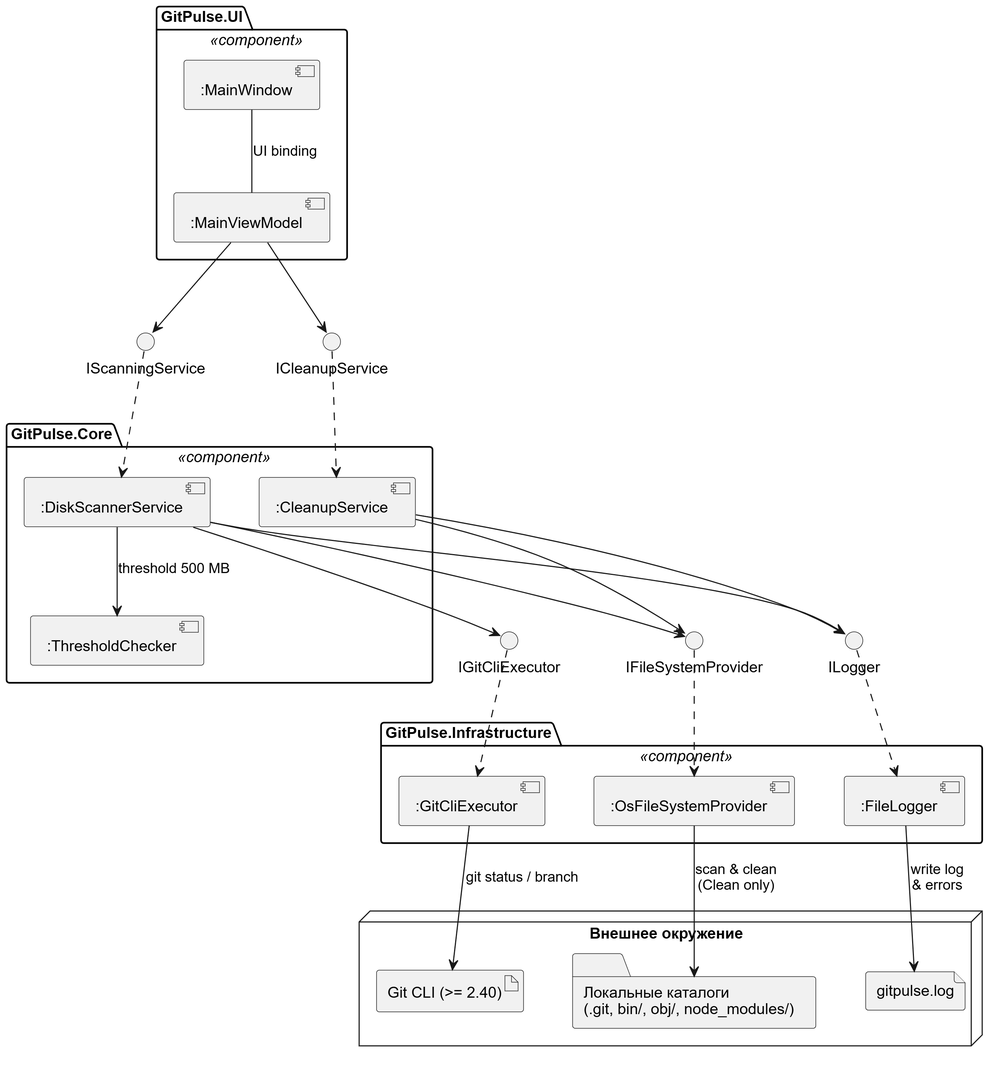
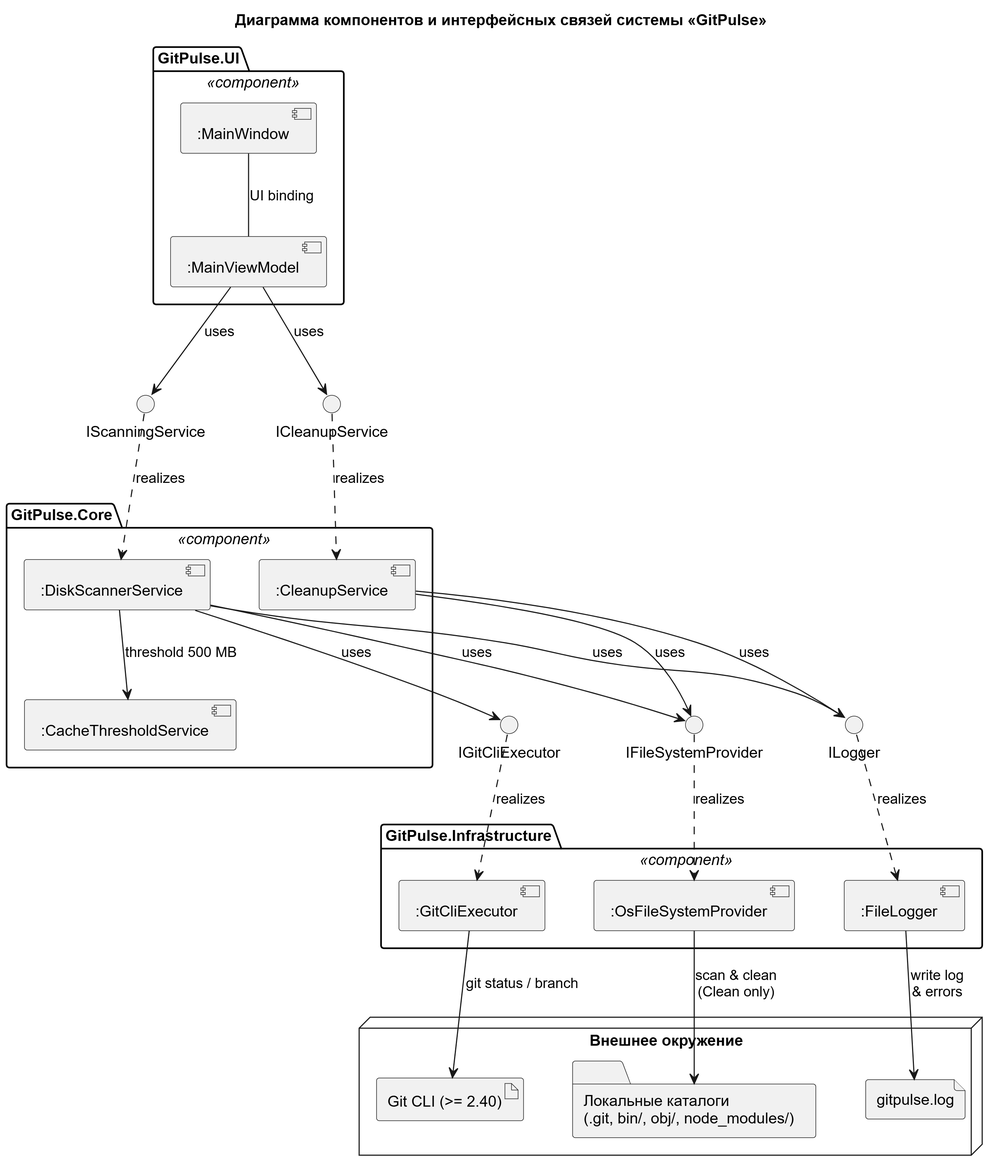
docs: синхронизировать документацию и диаграммы после согласования

diff --git a/sdd/sdd-template.md b/sdd/sdd-template.md
@@ -2,7 +2,7 @@
 
 Для кроссплатформенной десктопной утилиты аудита Git-репозиториев и очистки сборочных артефактов "GitPulse"
 
-Версия 0.5
+Версия 0.6
 
 Подготовил: Толкач Д. Г.
 
@@ -10,7 +10,7 @@
 
 Белорусский государственный университет информатики и радиоэлектроники (БГУИР)
 
-Дата изменения: 24 ноября 2026 г.
+Дата изменения: 26 ноября 2026 г.
 
 ## Оглавление
 
@@ -57,6 +57,7 @@
 | Толкач Д. Г. | 23.11.2026 | Обновлена архитектурная диаграмма системы (gitpulse-architecture.png) в соответствии с нотацией SysML v2 (представление Interconnection) | 0.3 |
 | Толкач Д. Г. | 23.11.2026 | Добавлены проектные представления динамического поведения (Use Case, Activity, State Machine, Sequence) и ссылки на диаграммы в рамках ЛР №5 | 0.4 |
 | Толкач Д. Г. | 24.11.2026 | Добавлены проектные представления диаграммы компонентов (gitpulse-components.png) и диаграммы развёртывания (gitpulse-deployment.png), обновлено описание решений в рамках ЛР №6 | 0.5 |
+| Толкач Д. Г. | 26.11.2026 | Актуализация спецификаций, версий и ссылок после согласования правок (500 МБ / 5 ГБ, Junior-разработчик, схема развёртывания и состав артефактов ЛР №3–№6) | 0.6 |
 
 ---
 
@@ -118,13 +119,13 @@
 Система работает локально в изолированном окружении операционной системы (Windows, Linux, macOS), взаимодействуя с файловой системой и утилитой Git CLI.
 
 #### 2.2.2 Композиция {#222-composition}
-Система делится на три логических слоя: представление (`GitPulse.UI`: `MainWindow`, `MainViewModel`), прикладное ядро (`GitPulse.Core`: `DiskScannerService`, `CleanupService`, `ThresholdChecker`) и инфраструктура (`GitPulse.Infrastructure`: `GitCliExecutor`, `OsFileSystemProvider`, `FileLogger`).
+Система делится на три логических слоя: представление (`GitPulse.UI`: `MainWindow`, `MainViewModel`), прикладное ядро (`GitPulse.Core`: `DiskScannerService`, `CleanupService`, `CacheThresholdService`) и инфраструктура (`GitPulse.Infrastructure`: `GitCliExecutor`, `OsFileSystemProvider`, `FileLogger`).
 
 #### 2.2.3 Логическое представление {#223-logical}
 Использование паттерна MVVM: `MainViewModel` управляет состоянием таблиц, инкапсулируя бизнес-логику фильтрации и подсчета порогов кэша (от 500 МБ).
 
 #### 2.2.4 Физическое представление {#224-physical}
-Портативный дистрибутив `GitPulse.zip` (Portable / Self-contained) для среды выполнения `.NET 9` на рабочей станции пользователя, включающий исполняемый файл `GitPulse.exe` и сборки `GitPulse.UI.dll`, `GitPulse.Core.dll`, `GitPulse.Infrastructure.dll`.
+Портативный дистрибутив `GitPulse.zip` (Portable / Self-contained) для среды выполнения `.NET 9` на рабочей станции пользователя, включающий исполняемый файл `GitPulse / GitPulse.exe` и сборки `GitPulse.UI.dll`, `GitPulse.Core.dll`, `GitPulse.Infrastructure.dll`.
 
 #### 2.2.5 Структура {#225-structure}
 Компоненты взаимодействуют через интерфейсные контракты (`IScanningService`, `ICleanupService`, `IGitCliExecutor`, `IFileSystemProvider`, `ILogger`) с внедрением зависимостей, что обеспечивает слабую связанность и модульное тестирование[cite: 28, 35].
@@ -145,7 +146,7 @@
 Рекурсивный обход файловой системы с проверкой наличия папки `.git` и быстрым исключением системных директорий.
 
 #### 2.2.11 Динамика состояний {#2211-state-dynamics}
-Основные состояния жизненного цикла аудита и очистки: `Idle` -> `Scanning` -> `Ready` (результаты с веткой, статусом `Clean`/`Dirty` и проверкой порога 500 МБ) -> `ConfirmingCleanup` -> `Cleaning` -> возврат в `Ready`/`Idle`, а также переход в `Error` при сбоях доступа, `Git CLI` или ввода-вывода с записью в `gitpulse.log`.
+Основные состояния жизненного цикла аудита и очистки: `Idle` -> `Scanning` -> `Ready` (результаты с веткой, статусом `Clean`/`Dirty` и проверкой базового порога 500 МБ) -> `ConfirmingCleanup` -> `Cleaning` -> возврат в `Ready`/`Idle`, а также переход в `Error` при сбоях доступа, `Git CLI` или ввода-вывода с записью в `gitpulse.log`. Фоновый режим и порог 5 ГБ зафиксированы по итогам переговоров с заказчиком как расширение без сдвига базового дедлайна.
 
 #### 2.2.12 Параллелизм {#2212-concurrency}
 Использование пула потоков .NET (`ThreadPool`) и асинхронных примитивов (`async/await`) для предотвращения блокировки пользовательского интерфейса.
@@ -168,12 +169,12 @@ MVVM, Repository Pattern, Dependency Injection.
 - **Viewpoint**: Композиция / Структура / Зависимости
 - **Representation**: Приложение построено по многослойной архитектуре с применением паттерна MVVM и внедрением зависимостей (DI). Слой представления (`GitPulse.UI`) изолирован от бизнес-логики (`GitPulse.Core`) и инфраструктурных вызовов ОС (`GitPulse.Infrastructure`) через интерфейсы. Реализует требования SRS: REQ-FUNC-001..006, REQ-AVAIL-001.
   ![Компонентная архитектура GitPulse](../images/gitpulse-architecture.png)
-- **More Information**: См. решения DEC-001-AvaloniaUI и DEC-002-GitCliProcess в Разделе 4. Исходная модель SysMLv2: `../diagrams/gitpulse-architecture.sysml`.
+- **More Information**: См. решения ADR-001 и ADR-002 в Разделе 4. Исходная модель SysMLv2: `../diagrams/gitpulse-architecture.sysml`.
 
 - **ID**: VIEW-002-LogicalClassModel
 - **Title**: Логическая модель данных и контракты сервисов
 - **Viewpoint**: Логическое представление / Интерфейс / Информация
-- **Representation**: Центральной сущностью в памяти является модель `RepositoryInfo`, инкапсулирующая состояние репозитория и флаг `CanSelect` (блокирующий выбор при `Status == GitStatus.Dirty`). Компонент проверки порога `ThresholdChecker` (`CacheThresholdService`) отслеживает превышение суммарного объёма сборочных артефактов свыше порога в 500 МБ. Реализует требования SRS: REQ-FUNC-002, REQ-FUNC-003, REQ-FUNC-005.
+- **Representation**: Центральной сущностью в памяти является модель `RepositoryInfo`, инкапсулирующая состояние репозитория и флаг `CanSelect` (блокирующий выбор при `Status == GitStatus.Dirty`). Компонент проверки порога `CacheThresholdService` отслеживает превышение суммарного объёма сборочных артефактов свыше порога в 500 МБ. Реализует требования SRS: REQ-FUNC-002, REQ-FUNC-003, REQ-FUNC-005.
   ![Диаграмма классов GitPulse](../images/gitpulse-classes.png)
 - **More Information**: Детали выбора структуры хранения в памяти без БД зафиксированы в ADR-003.
 
@@ -187,7 +188,7 @@ MVVM, Repository Pattern, Dependency Injection.
 - **Title**: Асинхронный конвейер сканирования и интеграция с Git CLI
 - **Viewpoint**: Взаимодействие / Алгоритм / Параллелизм
 - **Representation**: Сканирование выполняется асинхронно в пуле потоков (`Task.Run`) с поддержкой токена отмены (`CancellationToken`). При обнаружении каталога `.git` запускаются дочерние процессы `git status --porcelain` и `git branch --show-current`. Ошибки доступа к заблокированным файлам перехватываются и записываются в `gitpulse.log` без прерывания общего цикла. Реализует требования SRS: REQ-PERF-001, REQ-PERF-002, REQ-REL-001, REQ-OBS-001.
-- **More Information**: См. решение DEC-002-GitCliProcess и файл `../adr/adr-template.md`.
+- **More Information**: См. решение ADR-002 и файл `../adr/adr-template.md`.
 
 ### 3.1 Варианты использования {#31-use-cases}
 
@@ -196,16 +197,16 @@ MVVM, Repository Pattern, Dependency Injection.
 - **Viewpoint**: Контекст / Взаимодействие
 - **Representation**: Определяет сценарии работы основного актёра («Разработчик / Пользователь») и внешних систем («Git CLI (>= 2.40)», «Файловая система ОС») при выборе целевой директории, сканировании репозиториев, проверке порога 500 МБ, определении статуса `Clean`/`Dirty`, выборе целей, подтверждении в диалоге и очистке сборочных артефактов. Связи `<<include>>` фиксируют обязательные подпроцессы проверки порога, опроса Git CLI, расчёта/логирования размеров и подтверждения удаления. Реализует требования SRS: REQ-FUNC-001..006, REQ-SEC-001, REQ-OBS-001.
   ![Диаграмма вариантов использования GitPulse](../images/gitpulse-usecase.png)
-- **More Information**: См. сценарии прецедентов в `docs/supplementary-specifications.md`, решение DEC-002-GitCliProcess и исходный код диаграммы `../diagrams/gitpulse-usecase.puml`.
+- **More Information**: См. сценарии прецедентов в `use-cases.md`, решение ADR-002 и исходный код диаграммы `../diagrams/gitpulse-usecase.puml`.
 
 ### 3.2 Поток активности {#32-activity-flow}
 
 - **ID**: VIEW-006-ActivityDiagram
 - **Title**: Диаграмма активности сценариев сканирования и очистки
 - **Viewpoint**: Алгоритм / Взаимодействие / Параллелизм
-- **Representation**: Разделяет действия пользователя и системы (`GitPulse`) на две дорожки: выбор директории и запуск «Scan Disk», рекурсивный поиск `.git`, сбор сведений о ветке/статусе и размере артефактов, суммирование объёма и управление предупреждением о пороге 500 МБ, отображение результатов в таблице, выбор репозиториев, запуск «Clean Artifacts», модальное подтверждение удаления, очистка каталогов с записью результатов и ошибок в `gitpulse.log` либо отмена без изменения файлов, а также обновление таблицы и индикатора объёма. Реализует требования SRS: REQ-FUNC-001..006, REQ-PERF-001, REQ-SEC-001, REQ-OBS-001.
+- **Representation**: Разделяет действия пользователя и системы (`GitPulse`) на две дорожки: выбор директории и запуск «Scan Disk», рекурсивный поиск `.git`, сбор сведений о ветке/статусе и размере артефактов, суммирование объёма и управление предупреждением о базовом пороге 500 МБ (расширение с фоновым режимом и уведомлением на 5 ГБ включается в текущий релиз без сдвига дедлайна за счёт подключения Junior-разработчика), отображение результатов в таблице, выбор репозиториев, запуск «Clean Artifacts», модальное подтверждение удаления, очистка каталогов с записью результатов и ошибок в `gitpulse.log` либо отмена без изменения файлов, а также обновление таблицы и индикатора объёма. Реализует требования SRS: REQ-FUNC-001..006, REQ-PERF-001, REQ-SEC-001, REQ-OBS-001.
   ![Диаграмма активности GitPulse](../images/gitpulse-activity.png)
-- **More Information**: Согласовано с приоритетами PRIO-01..PRIO-05 в Разделе 2.2 и решением DEC-003-InMemoryStorage. Исходный код диаграммы: `../diagrams/gitpulse-activity.puml`.
+- **More Information**: Согласовано с приоритетами PRIO-01..PRIO-05 в Разделе 2.2 и решением ADR-003. Исходный код диаграммы: `../diagrams/gitpulse-activity.puml`.
 
 ### 3.3 Динамика состояний {#33-state-dynamics}
 
@@ -228,50 +229,50 @@ MVVM, Repository Pattern, Dependency Injection.
 - **ID**: VIEW-009-ComponentDiagram
 - **Title**: Диаграмма компонентов и интерфейсных связей GitPulse
 - **Viewpoint**: Композиция / Структура / Зависимости / Интерфейс
-- **Representation**: Отображает статическую декомпозицию приложения на три слоя (`GitPulse.UI`: `:MainWindow`, `:MainViewModel`; `GitPulse.Core`: `:DiskScannerService`, `:CleanupService`, `:ThresholdChecker`; `GitPulse.Infrastructure`: `:GitCliExecutor`, `:OsFileSystemProvider`, `:FileLogger`), их предоставляемые и требуемые интерфейсы (`IScanningService`, `ICleanupService`, `IGitCliExecutor`, `IFileSystemProvider`, `ILogger`), контроль порога объёма артефактов (500 МБ) и взаимодействие с внешним окружением (`Git CLI >= 2.40`, локальные каталоги `.git`, `bin/`, `obj/`, `node_modules/` и журнал `gitpulse.log`). Реализует требования SRS: REQ-FUNC-001..006, REQ-SEC-001, REQ-REL-001, REQ-OBS-001.
+- **Representation**: Отображает статическую декомпозицию приложения на три слоя (`GitPulse.UI`: `:MainWindow`, `:MainViewModel`; `GitPulse.Core`: `:DiskScannerService`, `:CleanupService`, `:CacheThresholdService`; `GitPulse.Infrastructure`: `:GitCliExecutor`, `:OsFileSystemProvider`, `:FileLogger`), их предоставляемые и требуемые интерфейсы (`IScanningService`, `ICleanupService`, `IGitCliExecutor`, `IFileSystemProvider`, `ILogger`), контроль порога объёма артефактов (500 МБ) и взаимодействие с внешним окружением (`Git CLI >= 2.40`, локальные каталоги `.git`, `bin/`, `obj/`, `node_modules/` и журнал `gitpulse.log`). Реализует требования SRS: REQ-FUNC-001..006, REQ-SEC-001, REQ-REL-001, REQ-OBS-001.
   ![Диаграмма компонентов GitPulse](../images/gitpulse-components.png)
-- **More Information**: См. решения DEC-001..DEC-005 в Разделе 4 и файл `../adr/adr-template.md`. Исходный код диаграммы: `../diagrams/gitpulse-components.puml`.
+- **More Information**: См. решения ADR-001..ADR-005 в Разделе 4 и файл `../adr/adr-template.md`. Исходный код диаграммы: `../diagrams/gitpulse-components.puml`.
 
 - **ID**: VIEW-010-DeploymentDiagram
 - **Title**: Диаграмма развёртывания десктопного приложения GitPulse
 - **Viewpoint**: Физическое представление / Развёртывание / Ресурсы
-- **Representation**: Описывает физическое размещение артефактов на рабочей станции пользователя (Windows, Linux, macOS) в среде выполнения `.NET 9` из дистрибутива `GitPulse.zip` (Portable / Self-contained): исполняемый модуль `GitPulse.exe` и сборки `GitPulse.UI.dll`, `GitPulse.Core.dll`, `GitPulse.Infrastructure.dll`, связанные отношением проявления (`<<manifest>>`) с соответствующими компонентами, а также взаимодействие инфраструктурной сборки с внешними ресурсами ОС (`Git CLI >= 2.40`, локальные каталоги репозиториев и файл журнала `gitpulse.log`). Реализует требования SRS: REQ-CON-001, REQ-AVAIL-001, REQ-FUNC-002, REQ-FUNC-006, REQ-OBS-001.
+- **Representation**: Описывает физическое размещение артефактов на рабочей станции пользователя (Windows, Linux, macOS) в среде выполнения `.NET 9` из дистрибутива `GitPulse.zip` (Portable / Self-contained): исполняемый модуль `GitPulse / GitPulse.exe` и сборки `GitPulse.UI.dll`, `GitPulse.Core.dll`, `GitPulse.Infrastructure.dll`, связанные отношением проявления (`<<manifest>>`) с соответствующими компонентами, а также взаимодействие инфраструктурной сборки с внешними ресурсами ОС (`Git CLI >= 2.40`, локальные каталоги репозиториев и файл журнала `gitpulse.log`). Реализует требования SRS: REQ-CON-001, REQ-AVAIL-001, REQ-FUNC-002, REQ-FUNC-006, REQ-OBS-001.
   ![Диаграмма развёртывания GitPulse](../images/gitpulse-deployment.png)
-- **More Information**: См. решения DEC-001-AvaloniaUI, DEC-002-GitCliProcess, DEC-003-InMemoryStorage и DEC-005-ComponentAssemblyAndDeployment в Разделе 4. Исходный код диаграммы: `../diagrams/gitpulse-deployment.puml`.
+- **More Information**: См. решения ADR-001, ADR-002, ADR-003 и ADR-005 в Разделе 4. Исходный код диаграммы: `../diagrams/gitpulse-deployment.puml`.
 
 ---
 
 ## 4. Решения {#4-decisions}
 
-- **ID**: DEC-001-AvaloniaUI
+- **ID**: ADR-001
 - **Title**: Выбор фреймворка Avalonia UI для кроссплатформенного интерфейса
 - **Context**: Требовалось обеспечить идентичный нативный интерфейс на Windows 10/11, Linux и macOS на базе технологического стека C# / .NET 9.
 - **Options**: WPF (только Windows), Windows Forms (устарел, только Windows), .NET MAUI (ограниченная поддержка Linux), Avalonia UI.
 - **Outcome**: Выбран вариант «Avalonia UI», потому что он обеспечивает полноценную кроссплатформенность (включая Linux), высокую производительность рендеринга и зрелую поддержку паттерна MVVM.
 - **More Information**: Подробный протокол решения зафиксирован в `../adr/adr-template.md` (ADR-001).
 
-- **ID**: DEC-002-GitCliProcess
+- **ID**: ADR-002
 - **Title**: Использование Git CLI через дочерние процессы вместо нативных обёрток
 - **Context**: Необходимо считывать ветку и статус рабочей копии (`Clean`/`Dirty`) на трёх разных ОС без конфликтов нативных библиотек.
 - **Options**: Библиотека LibGit2Sharp, запуск системного процесса `git` через `System.Diagnostics.Process`.
 - **Outcome**: Выбран вариант «Запуск консольного процесса git», потому что он избавляет от проблем с кроссплатформенной сборкой нативных зависимостей `libgit2` и гарантирует полную совместимость с установленным у пользователя Git >= 2.40.
 - **More Information**: Подробный протокол решения зафиксирован в `../adr/adr-template.md` (ADR-002).
 
-- **ID**: DEC-003-InMemoryStorage
+- **ID**: ADR-003
 - **Title**: Хранение результатов сканирования в оперативной памяти без локальной СУБД
 - **Context**: Утилита выполняет разовый аудит актуального состояния файловой системы и не требует ведения исторической базы данных между запусками.
 - **Options**: Встраиваемая БД SQLite, хранение состояния в оперативной памяти (`ObservableCollection<RepositoryInfo>`).
 - **Outcome**: Выбран вариант «Хранение в оперативной памяти», потому что данные о состоянии репозиториев и размере кэша быстро устаревают, а отказ от СУБД сохраняет портативность приложения (Portable) и снижает накладные расходы.
 - **More Information**: Подробный протокол решения зафиксирован в `../adr/adr-template.md` (ADR-003).
 
-- **ID**: DEC-004-BehaviorAndLayerMechanisms
+- **ID**: ADR-004
 - **Title**: Единые механизмы взаимодействия слоёв, асинхронности, безопасности очистки и логирования
 - **Context**: При моделировании динамического поведения (Use Case, Activity, State Machine, Sequence) и согласовании приоритетов с заказчиком потребовалось закрепить единые механизмы работы слоёв `UI`, `Core` и `Infrastructure`, асинхронного выполнения с отменой, защиты `Dirty`-репозиториев, обработки ошибок и записи в `gitpulse.log`.
 - **Options**: Прямые вызовы `Git CLI` и файловой системы из `ViewModel` без изоляции слоёв; многослойная схема с асинхронными сервисами, явными состояниями, модальным подтверждением и логированием в `gitpulse.log`.
 - **Outcome**: Выбран вариант «Многослойная схема с асинхронными сервисами, явными состояниями, модальным подтверждением и логированием в `gitpulse.log`», потому что он обеспечивает отзывчивый UI, безопасное удаление и диагностируемость ошибок без срыва сроков за счёт приоритетов и подключения Junior-разработчика к вспомогательным задачам.
 - **More Information**: Подробный протокол решения зафиксирован в `../adr/adr-template.md` (ADR-004).
 
-- **ID**: DEC-005-ComponentAssemblyAndDeployment
+- **ID**: ADR-005
 - **Title**: Механизмы построения, интерфейсных связей и развёртывания компонентов GitPulse
 - **Context**: При статическом моделировании (диаграммы классов, компонентов и развёртывания в ЛР №6) потребовалось зафиксировать правила сборки слоёв, направления зависимостей через интерфейсы, контроль порога 500 МБ и статуса `Clean`/`Dirty`, обработку ошибок с записью в `gitpulse.log` и переносимую поставку под `.NET 9`.
 - **Options**: Монолитная сборка с прямыми ссылками между слоями и установщиком под конкретную ОС; модульная сборка по слоям `UI`, `Core` и `Infrastructure` на базе интерфейсов, проверка порога/статуса/отмены, логирование в `gitpulse.log` и поставка `GitPulse.zip` (Portable / Self-contained).

diff --git a/adr/adr-template.md b/adr/adr-template.md
@@ -154,8 +154,8 @@ informed: Внук О. М. (Преподаватель дисциплины ЖЦ
 По результатам моделирования динамического поведения (Use Case, Activity, State Machine, Sequence) и согласования приоритетов с заказчиком необходимо зафиксировать единые механизмы взаимодействия между слоями `GitPulse.UI`, `GitPulse.Core` и `GitPulse.Infrastructure`, асинхронного выполнения, защиты от удаления несохранённых изменений, обработки ошибок и логирования в `gitpulse.log` без затягивания сроков поставки.
 
 ## Драйверы решения
-* Разделение ответственности между слоем представления (`MainWindow`, `MainViewModel`), прикладным слоем (`DiskScannerService`, `CleanupService`, `ThresholdChecker`) и инфраструктурным слоем (`GitCliExecutor`, `OsFileSystemProvider`, `FileLogger`).
-* Единые интерфейсные контракты между слоями (`IScanningService` / `IDiskScanner`, `ICleanupService`, `IGitCliExecutor` / `IGitService`, `IFileSystemProvider`, `ILogger`) с поддержкой асинхронности и отмены через `CancellationToken`.
+* Разделение ответственности между слоем представления (`MainWindow`, `MainViewModel`), прикладным слоем (`DiskScannerService`, `CleanupService`, `CacheThresholdService`) и инфраструктурным слоем (`GitCliExecutor`, `OsFileSystemProvider`, `FileLogger`).
+* Единые интерфейсные контракты между слоями (`IScanningService`, `ICleanupService`, `IGitCliExecutor`, `IFileSystemProvider`, `ILogger`) с поддержкой асинхронности и отмены через `CancellationToken`.
 * Безопасная очистка сборочных артефактов (порог 500 МБ, контроль статуса `Clean`/`Dirty`, модальное подтверждение перед удалением).
 * Фиксация ошибок доступа, сбоев `Git CLI (>= 2.40)` и результатов операций в `gitpulse.log` без падения всей операции.
 * Реалистичное планирование работ с учётом приоритетов (`PRIO-01`..`PRIO-05`), подключения Junior-разработчика к рутинным задачам/логированию и поэтапного развития сценариев контроля кэша.
@@ -168,7 +168,7 @@ informed: Внук О. М. (Преподаватель дисциплины ЖЦ
 Выбран вариант **«Слоистая архитектура с асинхронными сервисами, явными состояниями, подтверждением очистки и логированием в `gitpulse.log`»**, потому что он связывает пользовательские сценарии с компонентами и внешними системами (`Git CLI >= 2.40`, файловая система ОС) через чёткие контракты и безопасно обрабатывает сбои и отмену операций.
 
 ### Последствия
-* Хорошо, потому что `MainViewModel` координирует команды и состояние UI, `DiskScannerService`, `CleanupService` и `ThresholdChecker` инкапсулируют логику сканирования, очистки и проверки порога 500 МБ, а `GitCliExecutor`, `OsFileSystemProvider` и `FileLogger` изолируют работу с процессами, диском и журналом `gitpulse.log`.
+* Хорошо, потому что `MainViewModel` координирует команды и состояние UI, `DiskScannerService`, `CleanupService` и `CacheThresholdService` инкапсулируют логику сканирования, очистки и проверки порога 500 МБ, а `GitCliExecutor`, `OsFileSystemProvider` и `FileLogger` изолируют работу с процессами, диском и журналом `gitpulse.log`.
 * Хорошо, потому что передача `CancellationToken` и обработка исключений на уровне отдельного репозитория/каталога предотвращают зависание приложения и потерю остальных результатов.
 * Хорошо, потому что подключение Junior-разработчика к вспомогательным задачам и логированию снижает риск срыва дедлайна при развитии сценариев контроля кэша.
 * Плохо, потому что добавление модального подтверждения и ветвлений обработки ошибок увеличивает число сценариев для тестирования.
@@ -203,7 +203,7 @@ informed: Внук О. М. (Преподаватель дисциплины ЖЦ
 
 ## Драйверы решения
 * Чёткое разделение ответственности между слоями `GitPulse.UI`, `GitPulse.Core` и `GitPulse.Infrastructure` без циклических зависимостей.
-* Связывание компонентов через интерфейсные контракты (`IScanningService` / `IDiskScanner`, `ICleanupService`, `IGitCliExecutor` / `IGitService`, `IFileSystemProvider`, `ILogger`) с внедрением зависимостей (DI) для сервисов и адаптеров (`DiskScannerService`, `CleanupService`, `ThresholdChecker`, `GitCliExecutor`, `OsFileSystemProvider`, `FileLogger`).
+* Связывание компонентов через интерфейсные контракты (`IScanningService`, `ICleanupService`, `IGitCliExecutor`, `IFileSystemProvider`, `ILogger`) с внедрением зависимостей (DI) для сервисов и адаптеров (`DiskScannerService`, `CleanupService`, `CacheThresholdService`, `GitCliExecutor`, `OsFileSystemProvider`, `FileLogger`).
 * Защита пользовательских данных: блокировка выбора репозиториев со статусом `Dirty`, расчёт суммарного объёма артефактов (`bin`, `obj`, `node_modules`) относительно порога 500 МБ и обязательное модальное подтверждение перед удалением.
 * Устойчивость к ошибкам доступа, сбоям внешнего `Git CLI (>= 2.40)` и отмене операций по `CancellationToken` с фиксацией событий в `gitpulse.log`.
 * Кроссплатформенная поставка в виде архива `GitPulse.zip` (Portable / Self-contained) для Windows, Linux и macOS на базе `.NET 9` / Avalonia UI.
@@ -216,8 +216,8 @@ informed: Внук О. М. (Преподаватель дисциплины ЖЦ
 Выбран вариант **«Слоистая компонентная модель с интерфейсными контрактами, защитой очистки, логированием в `gitpulse.log` и манифестацией сборок»**, потому что он задаёт прозрачные точки интеграции между компонентами, изолирует системные вызовы и обеспечивает переносимость приложения.
 
 ### Последствия
-* Хорошо, потому что `GitPulse.UI` (`MainWindow`, `MainViewModel`) работает только с прикладными сервисами через `IScanningService` / `IDiskScanner` и `ICleanupService`, не зная деталей запуска `git` или обхода файловой системы.
-* Хорошо, потому что `GitPulse.Core` (`DiskScannerService`, `CleanupService`, `ThresholdChecker`) инкапсулирует бизнес-логику проверки статуса `Clean`/`Dirty` и порога 500 МБ, а `GitPulse.Infrastructure` (`GitCliExecutor`, `OsFileSystemProvider`, `FileLogger`) реализует контракты `IGitCliExecutor` / `IGitService`, `IFileSystemProvider` и `ILogger` для работы с `Git CLI >= 2.40`, каталогами и `gitpulse.log`.
+* Хорошо, потому что `GitPulse.UI` (`MainWindow`, `MainViewModel`) работает только с прикладными сервисами через `IScanningService` и `ICleanupService`, не зная деталей запуска `git` или обхода файловой системы.
+* Хорошо, потому что `GitPulse.Core` (`DiskScannerService`, `CleanupService`, `CacheThresholdService`) инкапсулирует бизнес-логику проверки статуса `Clean`/`Dirty` и порога 500 МБ, а `GitPulse.Infrastructure` (`GitCliExecutor`, `OsFileSystemProvider`, `FileLogger`) реализует контракты `IGitCliExecutor`, `IFileSystemProvider` и `ILogger` для работы с `Git CLI >= 2.40`, каталогами и `gitpulse.log`.
 * Хорошо, потому что на диаграмме развёртывания сборки `GitPulse.UI.dll`, `GitPulse.Core.dll` и `GitPulse.Infrastructure.dll` явно соотнесены (`<<manifest>>`) с архитектурными компонентами внутри портативного пакета `GitPulse.zip`.
 * Плохо, потому что поддержание единых имён контрактов и моделей между диаграммами классов, компонентов, развёртывания и кодом требует аккуратной синхронизации при рефакторинге.
 

diff --git a/srs/srs-template.md b/srs/srs-template.md
@@ -2,7 +2,7 @@
 
 Для GitPulse – кроссплатформенной десктопной утилиты аудита Git-репозиториев и очистки сборочных артефактов
 
-Версия 0.3
+Версия 0.4
 
 Подготовил: Толкач Д. Г.
 
@@ -10,7 +10,7 @@
 
 Белорусский государственный университет информатики и радиоэлектроники (БГУИР)
 
-Дата изменения: 23 ноября 2026 г.
+Дата изменения: 26 ноября 2026 г.
 
 ## Оглавление
 
@@ -63,7 +63,9 @@
 |:---|:---|:---|:---|
 | Толкач Д. Г. | 26.10.2026 | Инициализация спецификации бизнес-требований<br>к утилите GitPulse в рамках лабораторной работы №3 по ЖЦРПО | 0.1 |
 | Толкач Д. Г. | 27.10.2026 | Актуализация нефункциональных требований<br>по результатам код-ревью (добавлено<br>явное описание кроссплатформенности и порога<br>информирования по сборочному кэшу<br>от 500 МБ) | 0.2 |
-| Толкач Д. Г. | 23.11.2026 | Обновлена структурная диаграмма пользовательского интерфейса (`gitpulse-sysml-ui.png`) по нотации SysML v2, исходная модель вынесена в `diagrams/gitpulse-ui.sysml` | 0.3 |
+| Толкач Д. Г. | 23.11.2026 | Обновлена структурная диаграмма пользовательского интерфейса (`gitpulse-ui.png`) по нотации SysML v2, исходная модель вынесена в `diagrams/gitpulse-ui.sysml` | 0.3 |
+| Толкач Д. Г. | 26.11.2026 | Согласованы порог 500 МБ и фоновый сценарий на 5 ГБ без сдвига дедлайна (привлечение Junior-разработчика), актуализирована матрица верификации (Раздел 4) | 0.4 |
+
 
 ---
 
@@ -136,7 +138,7 @@ GitPulse разрабатывается как полностью самосто
 - **Зависимости окружения:** Для корректной работы утилиты в операционной системе пользователя должен быть установлен Git версии не ниже 2.40.
 - **Права доступа:** Утилита ограничена правами текущего пользователя ОС. Она не должна пытаться модифицировать или сканировать системные защищенные каталоги, требующие привилегий администратора (root).
 - **Поддерживаемые операционные системы:** Утилита функционирует кроссплатформенно и поддерживает ОС Windows 10/11, Linux (Ubuntu, Fedora) и macOS (12+).
-- **Ограничения по кэшу:** Информирование пользователя о превышении лимита сборочного мусора срабатывает при достижении порогового значения в 500 МБ.
+- **Ограничения по кэшу:** В базовом контуре информирование пользователя о превышении объёма сборочных артефактов срабатывает при достижении порога 500 МБ в интерфейсе; сценарий фонового режима с уведомлением при превышении 5 ГБ по итогам переговоров с заказчиком включается в текущий релиз без сдвига жёсткого дедлайна за счёт подключения Junior-разработчика.
 
 ### 2.4 Характеристики пользователей {#24-user-characteristics}
 
@@ -298,22 +300,22 @@ GitPulse разрабатывается как полностью самосто
 
 ## 4. Верификация {#4-verification}
 
-В таблице представлена матрица трассируемости и верификации требований для утилиты GitPulse. Каждый тестовый сценарий проверяет соответствующий уникальный идентификатор из Раздела 3.
+В таблице представлена матрица трассируемости и верификации требований для утилиты GitPulse. Каждый тестовый сценарий проверяет соответствующий уникальный идентификатор из Раздела 3. На текущем этапе (5-й семестр, ЛР №3–№6) выполнена спецификация требований и архитектурное моделирование (SDD, ADR, SysMLv2/UML); запуск тестов и проверок на готовой сборке запланирован на этап реализации (Фаза 2, 6-й семестр).
 
 | Requirement ID | Verification Method | Test/Artifact Link | Status | Evidence |
 |:---|:---|:---|:---|:---|
-| REQ-FUNC-001-01 | Demonstration | specs/FUNC-001.md | Planned | Лабораторная работа №3 |
-| REQ-FUNC-002-01 | Test | tests/GitParser.cs | Planned | Лабораторная работа №3 |
-| REQ-FUNC-003-01 | Test | tests/SizeCalc.cs | Planned | Лабораторная работа №3 |
-| REQ-FUNC-004-01 | Demonstration | specs/UI-State.md | Planned | Лабораторная работа №3 |
-| REQ-FUNC-005-01 | Test | tests/SafetyLock.cs | Planned | Лабораторная работа №3 |
-| REQ-FUNC-006-01 | Demonstration | specs/Cleaner.md | Planned | Лабораторная работа №3 |
-| REQ-PERF-001-01 | Test | tests/PerfTests.cs | Planned | Лабораторная работа №3 |
-| REQ-PERF-002-01 | Demonstration | specs/AsyncUI.md | Planned | Лабораторная работа №3 |
-| REQ-SEC-001-01 | Test | tests/Security.cs | Planned | Лабораторная работа №3 |
-| REQ-REL-001-01 | Test | tests/Exception.cs | Planned | Лабораторная работа №3 |
-| REQ-REL-002-01 | Test | tests/Idempotent.cs | Planned | Лабораторная работа №3 |
-| REQ-OBS-001-01 | Inspection | logs/gitpulse.log | Planned | Лабораторная работа №3 |
+| REQ-FUNC-001-01 | Demonstration | specs/FUNC-001.md | Modeled (Phase 2 Test) | SRS (разд. 3.2), SDD (`VIEW-001`, `VIEW-004`–`VIEW-006`, `VIEW-008`–`VIEW-009`, `ADR-002`, `ADR-004`–`ADR-005`) |
+| REQ-FUNC-002-01 | Test | tests/GitParser.cs | Modeled (Phase 2 Test) | SRS (разд. 3.2), SDD (`VIEW-002`, `VIEW-004`–`VIEW-005`, `VIEW-007`–`VIEW-010`, `ADR-002`, `ADR-004`–`ADR-005`) |
+| REQ-FUNC-003-01 | Test | tests/SizeCalc.cs | Modeled (Phase 2 Test) | SRS (разд. 2.2, 3.2), SDD (`VIEW-002`, `VIEW-005`–`VIEW-006`, `VIEW-008`–`VIEW-009`, `ADR-003`–`ADR-005`) |
+| REQ-FUNC-004-01 | Demonstration | specs/UI-State.md | Modeled (Phase 2 Test) | SRS (разд. 2.2, 3.1.1, 3.2, прил. А), SDD (`VIEW-003`, `VIEW-005`–`VIEW-006`, `VIEW-008`, `ADR-001`, `ADR-004`) |
+| REQ-FUNC-005-01 | Test | tests/SafetyLock.cs | Modeled (Phase 2 Test) | SRS (разд. 3.2), SDD (`VIEW-002`, `VIEW-005`–`VIEW-007`, `VIEW-009`, `ADR-002`, `ADR-004`–`ADR-005`) |
+| REQ-FUNC-006-01 | Demonstration | specs/Cleaner.md | Modeled (Phase 2 Test) | SRS (разд. 2.2, 3.2), SDD (`VIEW-001`, `VIEW-003`, `VIEW-005`–`VIEW-010`, `ADR-004`–`ADR-005`) |
+| REQ-PERF-001-01 | Test | tests/PerfTests.cs | Modeled (Phase 2 Test) | SRS (разд. 3.3.1), SDD (`VIEW-004`, `VIEW-006`, `ADR-002`, `ADR-004`) |
+| REQ-PERF-002-01 | Demonstration | specs/AsyncUI.md | Modeled (Phase 2 Test) | SRS (разд. 3.3.1), SDD (`VIEW-004`, `VIEW-006`, `ADR-004`) |
+| REQ-SEC-001-01 | Test | tests/Security.cs | Modeled (Phase 2 Test) | SRS (разд. 3.3.2), SDD (`VIEW-003`, `VIEW-005`–`VIEW-006`, `VIEW-008`–`VIEW-009`, `ADR-004`–`ADR-005`) |
+| REQ-REL-001-01 | Test | tests/Exception.cs | Modeled (Phase 2 Test) | SRS (разд. 3.3.3), SDD (`VIEW-004`, `VIEW-007`, `VIEW-009`, `ADR-004`–`ADR-005`) |
+| REQ-AVAIL-001-01 | Demonstration | specs/OfflineMode.md | Modeled (Phase 2 Test) | SRS (разд. 1.2, 2.1, 3.3.4), SDD (`VIEW-001`, `VIEW-010`, `ADR-002`–`ADR-003`, `ADR-005`) |
+| REQ-OBS-001-01 | Inspection | logs/gitpulse.log | Modeled (Phase 2 Test) | SRS (разд. 3.3.5), SDD (`VIEW-004`–`VIEW-010`, `ADR-004`–`ADR-005`) |
 
 ---
 
@@ -327,6 +329,6 @@ GitPulse разрабатывается как полностью самосто
 ![Прототип интерфейса утилиты GitPulse](../images/gitpulse-gui-mockup.png)
 
 **2. Структурная спецификация интерфейса на языке SysMLv2:**
-![Структурная схема UI на SysML](../images/gitpulse-sysml-ui.png)
+![Структурная схема UI на SysML](../images/gitpulse-ui.png)
 
 Примечание: Настоящий графический макет разработан на этапе анализа бизнес-требований для наглядности, а его формальная системная структурная спецификация на языке SysMLv2 приведена в подразделе 3.1.1 и файле `../diagrams/gitpulse-ui.sysml` согласно требованиям СТП 01–2024 БГУИР.

diff --git a/docs/glossary.md b/docs/glossary.md
@@ -20,9 +20,9 @@
 | **ScanResult** | Агрегированный результат выполнения сканирования директории, содержащий коллекцию найденных объектов `RepositoryInfo`, общий объём артефактов (`TotalArtifactsBytes`) и флаг превышения порога (`IsThresholdExceeded`). |
 | **DiskScannerService** | Сервис слоя `GitPulse.Core` (реализующий `IScanningService`), выполняющий асинхронный рекурсивный поиск Git-репозиториев и расчёт размера артефактов с поддержкой отмены через `CancellationToken`. |
 | **CleanupService** | Сервис слоя `GitPulse.Core` (реализующий `ICleanupService`), выполняющий удаление артефактов для выбранных репозиториев, подсчёт освобождённого места и журналирование операций. |
-| **ThresholdChecker** | Компонент слоя `GitPulse.Core`, проверяющий превышение допустимого порога суммарного объёма сборочных артефактов (500 МБ) и формирующий сигнал предупреждения для пользовательского интерфейса[cite: 27, 28, 30]. |
+| **CacheThresholdService** | Компонент слоя `GitPulse.Core`, проверяющий превышение допустимого порога суммарного объёма сборочных артефактов (500 МБ) и формирующий сигнал предупреждения для пользовательского интерфейса[cite: 27, 28, 30]. |
 | **GitCliExecutor** | Компонент слоя `GitPulse.Infrastructure` (реализующий `IGitCliExecutor`), взаимодействующий с внешним процессом `Git CLI` (версии не ниже `2.40`) для получения текущей ветки, статуса и даты последнего коммита. |
-| **OsFileSystemProvider** | Компонент слоя `GitPulse.Infrastructure` (реализующий `IFileSystem`), инкапсулирующий операции обхода каталогов, подсчёта размера файлов и удаления директорий в локальной файловой системе. |
+| **OsFileSystemProvider** | Компонент слоя `GitPulse.Infrastructure` (реализующий `IFileSystemProvider`), инкапсулирующий операции обхода каталогов, подсчёта размера файлов и удаления директорий в локальной файловой системе. |
 | **FileLogger** | Компонент слоя `GitPulse.Infrastructure` (реализующий `ILogger`), записывающий события сканирования, удаления артефактов и ошибки ввода-вывода в локальный журнал работы приложения. |
 | **MVVM (Model-View-ViewModel)** | Архитектурный паттерн разделения ответственности в слое `GitPulse.UI`, обеспечивающий связь представлений (`MainWindow`, `ConfirmDialog`) с логикой представления (`MainViewModel`) через механизм привязки данных (`DataBinding`). |
 | **Avalonia UI** | Кроссплатформенный .NET UI-фреймворк, используемый для построения графического интерфейса `GitPulse` под Windows, Linux и macOS. |

diff --git a/docs/supplementary-specifications.md b/docs/supplementary-specifications.md
@@ -6,7 +6,7 @@
 ## 2. Функциональные правила сквозного действия
 * **SUPP-FUNC-01 (Безопасность `Dirty`-репозиториев):** Репозитории со статусом `Dirty` (наличие незакоммиченных изменений в рабочем дереве или индексе) не должны автоматически выбираться для очистки, а их очистка без явного подтверждения пользователя блокируется для предотвращения потери несохранённых изменений.
 * **SUPP-FUNC-02 (Целевые каталоги сборочных артефактов):** Система анализирует и удаляет только явно заданные каталоги сборочных артефактов и кэшей зависимостей (включая `bin`, `obj`, `node_modules`, `target`, `build`, `cmake-build-debug`), не затрагивая каталоги `.git`, исходный код и конфигурационные файлы проекта.
-* **SUPP-FUNC-03 (Контроль порогового объёма артефактов):** Система вычисляет суммарный объём обнаруженных артефактов и активирует индикатор/уведомление о превышении порогового значения (базовый порог – 500 МБ; по итогам согласования с заказчиком также прорабатывается фоновый сценарий контроля накопленного кэша с уведомлением пользователя без срыва сроков релиза).
+* **SUPP-FUNC-03 (Контроль порогового объёма артефактов):** Система вычисляет суммарный объём обнаруженных артефактов и активирует индикатор/уведомление о превышении порогового значения: в базовом контуре действует порог 500 МБ в интерфейсе, а по итогам переговоров с заказчиком фоновый режим с уведомлением при достижении 5 ГБ включается в текущий релиз без сдвига жёсткого дедлайна за счёт подключения Junior-разработчика.
 * **SUPP-FUNC-04 (Подтверждение массовой очистки):** Перед безвозвратным удалением артефактов выбранных репозиториев система запрашивает у пользователя подтверждение в модальном окне с отображением состава целей и итогового объёма освобождаемого места.
 
 ## 3. Требования к качеству обслуживания (QoS)

diff --git a/README.md b/README.md
@@ -15,7 +15,7 @@
 
 ### Лабораторная работа №3 (Анализ и бизнес-требования)
 * **Спецификация требований (SRS):** `srs/srs-template.md`
-* **Архитектурная схема (SysMLv2):** `images/gitpulse-sysml-ui.png`
+* **Архитектурная схема (SysMLv2):** `images/gitpulse-ui.png`
 * **UI-мокап интерфейса (Excalidraw):** `images/gitpulse-gui-mockup.png`
 * **Процедура код-ревью:** Pull Request №36 (`feature/gitpulse-srs` → `main`)
 
@@ -32,6 +32,6 @@
 * **Диаграммы динамического поведения:** `images/gitpulse-usecase.png`, `images/gitpulse-activity.png`, `images/gitpulse-statemachine.png`, `images/gitpulse-sequence.png`
 
 ### Лабораторная работа №6 (Моделирование статической структуры системы на языке UML)
-* **Обновлённое описание дизайна ПО (SDD):** `sdd/sdd-template.md` (версия 0.5 – проектные представления компонентов `VIEW-009` и развёртывания `VIEW-010`, решение `DEC-005`)
+* **Обновлённое описание дизайна ПО (SDD):** `sdd/sdd-template.md` (версия 0.5 – проектные представления компонентов VIEW-009 и развёртывания VIEW-010, актуализированные архитектурные решения ADR-001..ADR-005)
 * **Архитектурные решения (ADR):** `adr/adr-template.md` (добавлен `ADR-005` с механизмами построения, интерфейсных связей и развёртывания компонентов)
 * **Диаграммы статической структуры:** `images/gitpulse-classes.png` (обновлена), `images/gitpulse-components.png`, `images/gitpulse-deployment.png`
